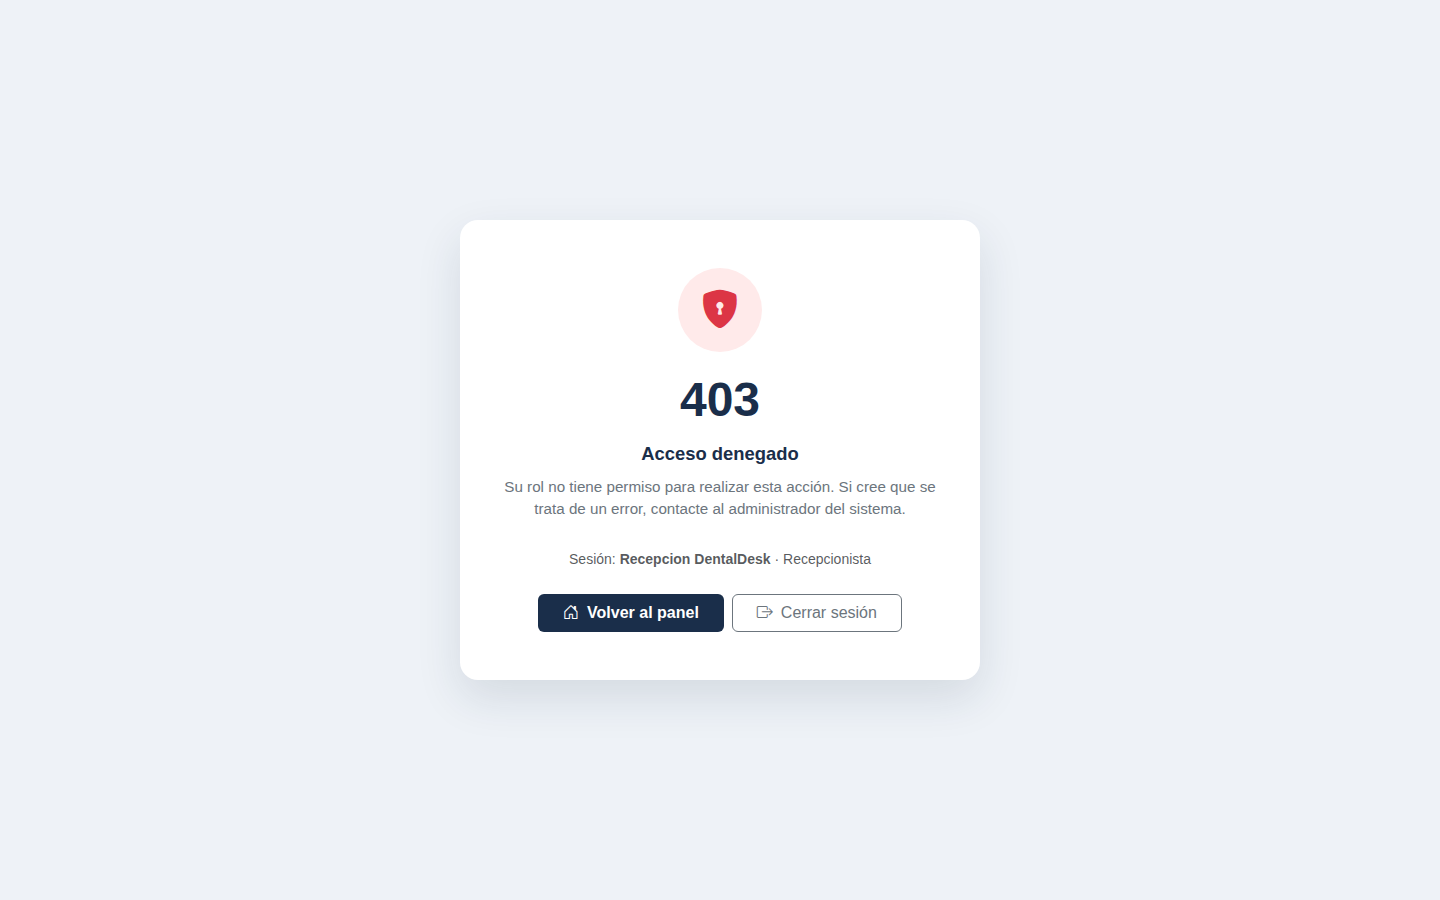
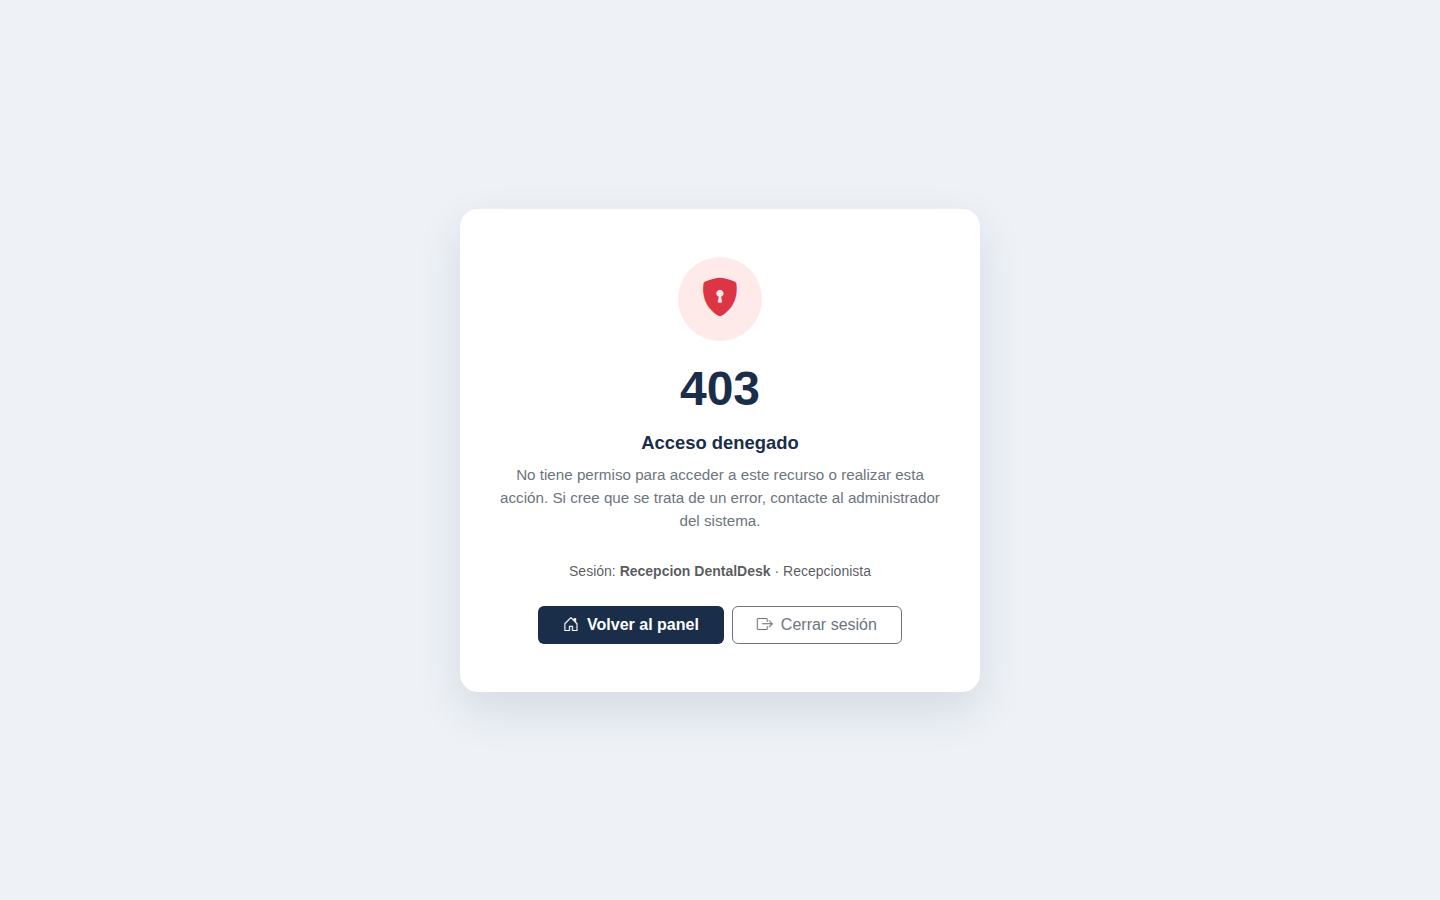
SDD-04: validacion de firma de Twilio en el webhook (T8)
Middleware twilio.firma con HMAC-SHA1 y comparacion en tiempo constante;
403 sin firma valida. El webhook exige numero valido, coincidencia exacta
del telefono, respuestas exactas si/no y registra cada cambio en el log.

Changed region(s): [[0.3438, 0.4044, 0.6562, 0.7156], [0.3125, 0.7467, 0.6875, 0.7778], [0.4688, 0.3111, 0.5312, 0.3733]]

diff --git a/app/Http/Controllers/WebhookController.php b/app/Http/Controllers/WebhookController.php
@@ -4,34 +4,104 @@ namespace App\Http\Controllers;
 
 use App\Models\Recordatorio;
 use Illuminate\Http\Request;
+use Illuminate\Support\Facades\Log;
+use Illuminate\Support\Str;
 
 class WebhookController extends Controller
 {
     public function whatsapp(Request $request)
     {
-        $telefono = preg_replace('/\D/', '', $request->input('From', ''));
-        $mensaje  = strtolower(trim($request->input('Body', '')));
+        $telefono = $this->normalizarTelefono((string) $request->input('From', ''));
 
-        // Buscar el recordatorio más reciente del paciente por teléfono
-        $recordatorio = Recordatorio::whereHas('cita.paciente', function ($q) use ($telefono) {
-                $q->whereRaw("regexp_replace(telefono_whatsapp, '[^0-9]', '', 'g') LIKE ?", ["%{$telefono}%"]);
+        // SDD-04 R3: sin número de origen válido no se toca ningún dato.
+        if (! $this->telefonoValido($telefono)) {
+            Log::warning('Webhook WhatsApp ignorado: número de origen inválido.', [
+                'from' => $request->input('From'),
+            ]);
+
+            return $this->respuestaVacia();
+        }
+
+        // SDD-04 R4: coincidencia exacta del número normalizado.
+        $recordatorio = Recordatorio::whereHas('cita.paciente', function ($query) use ($telefono) {
+                $query->whereRaw("regexp_replace(telefono_whatsapp, '[^0-9]', '', 'g') = ?", [$telefono]);
             })
             ->where('estado', 'enviado')
             ->latest()
             ->first();
 
-        if (!$recordatorio) {
-            return response('<Response></Response>')->header('Content-Type', 'text/xml');
+        if (! $recordatorio) {
+            return $this->respuestaVacia();
         }
 
-        if (str_contains($mensaje, 'si') || str_contains($mensaje, 'sí')) {
-            $recordatorio->update(['estado' => 'confirmado', 'respuesta_wa' => $request->input('Body')]);
+        $respuesta = $this->normalizarRespuesta((string) $request->input('Body', ''));
+
+        // SDD-04 R5: solo "sí" y "no" exactos cambian el estado.
+        if ($respuesta === 'si') {
+            $recordatorio->update([
+                'estado'       => 'confirmado',
+                'respuesta_wa' => $request->input('Body'),
+            ]);
             $recordatorio->cita->update(['estado' => 'confirmada']);
-        } elseif (str_contains($mensaje, 'no')) {
-            $recordatorio->update(['estado' => 'rechazado', 'respuesta_wa' => $request->input('Body')]);
+
+            $this->registrarCambio('confirmada', $telefono, $request, $recordatorio);
+        } elseif ($respuesta === 'no') {
+            $recordatorio->update([
+                'estado'       => 'rechazado',
+                'respuesta_wa' => $request->input('Body'),
+            ]);
             $recordatorio->cita->update(['estado' => 'cancelada']);
+
+            $this->registrarCambio('cancelada', $telefono, $request, $recordatorio);
+        } else {
+            Log::info('Webhook WhatsApp: respuesta no reconocida, sin cambios.', [
+                'telefono'  => $telefono,
+                'respuesta' => $request->input('Body'),
+                'cita_id'   => $recordatorio->cita_id,
+            ]);
         }
 
+        return $this->respuestaVacia();
+    }
+
+    /**
+     * SDD-04 R6: cada cambio queda en el log con número, respuesta y cita.
+     */
+    private function registrarCambio(string $estado, string $telefono, Request $request, Recordatorio $recordatorio): void
+    {
+        Log::info("Webhook WhatsApp: cita {$estado}.", [
+            'telefono'        => $telefono,
+            'respuesta'       => $request->input('Body'),
+            'cita_id'         => $recordatorio->cita_id,
+            'recordatorio_id' => $recordatorio->id,
+        ]);
+    }
+
+    private function normalizarTelefono(string $from): string
+    {
+        // "whatsapp:+59174272446" -> "59174272446"
+        return preg_replace('/\D/', '', $from);
+    }
+
+    private function telefonoValido(string $telefono): bool
+    {
+        return strlen($telefono) >= 8 && strlen($telefono) <= 15;
+    }
+
+    /**
+     * Minúsculas, sin tildes y sin espacios sobrantes; el resto se rechaza.
+     */
+    private function normalizarRespuesta(string $body): string
+    {
+        $texto = Str::lower(trim($body));
+
+        return strtr($texto, [
+            'á' => 'a', 'é' => 'e', 'í' => 'i', 'ó' => 'o', 'ú' => 'u', 'ü' => 'u',
+        ]);
+    }
+
+    private function respuestaVacia()
+    {
         return response('<Response></Response>')->header('Content-Type', 'text/xml');
     }
 }

diff --git a/app/Http/Middleware/ValidarFirmaTwilio.php b/app/Http/Middleware/ValidarFirmaTwilio.php
@@ -1,0 +1,52 @@
+<?php
+
+namespace App\Http\Middleware;
+
+use Closure;
+use Illuminate\Http\Request;
+use Illuminate\Support\Facades\Log;
+use Symfony\Component\HttpFoundation\Response;
+
+/**
+ * SDD-04 R1/R2: el webhook solo procesa peticiones firmadas por Twilio.
+ *
+ * Twilio firma con HMAC-SHA1 sobre la URL completa seguida de los parámetros
+ * POST ordenados por nombre. Sin firma válida la petición se rechaza con 403
+ * y no llega al controlador.
+ */
+class ValidarFirmaTwilio
+{
+    public function handle(Request $request, Closure $next): Response
+    {
+        $token = (string) config('services.twilio.token');
+        $firma = (string) $request->header('X-Twilio-Signature', '');
+
+        if ($token === '' || $firma === '') {
+            Log::warning('Webhook WhatsApp rechazado: falta la firma o el token de Twilio.', [
+                'ip' => $request->ip(),
+            ]);
+
+            abort(403, 'Firma de Twilio ausente.');
+        }
+
+        $parametros = $request->post();
+        ksort($parametros);
+
+        $cadena = $request->fullUrl();
+        foreach ($parametros as $clave => $valor) {
+            $cadena .= $clave . (is_array($valor) ? implode('', $valor) : $valor);
+        }
+
+        $esperada = base64_encode(hash_hmac('sha1', $cadena, $token, true));
+
+        if (! hash_equals($esperada, $firma)) {
+            Log::warning('Webhook WhatsApp rechazado: firma inválida.', [
+                'ip' => $request->ip(),
+            ]);
+
+            abort(403, 'Firma de Twilio inválida.');
+        }
+
+        return $next($request);
+    }
+}

diff --git a/resources/views/errors/403.blade.php b/resources/views/errors/403.blade.php
@@ -52,7 +52,7 @@
     <div class="denegado-code">403</div>
     <div class="denegado-title">Acceso denegado</div>
     <p class="denegado-text">
-        Su rol no tiene permiso para realizar esta acción.
+        No tiene permiso para acceder a este recurso o realizar esta acción.
         Si cree que se trata de un error, contacte al administrador del sistema.
     </p>
 

diff --git a/bootstrap/app.php b/bootstrap/app.php
@@ -11,7 +11,9 @@ return Application::configure(basePath: dirname(__DIR__))
         health: '/up',
     )
     ->withMiddleware(function (Middleware $middleware) {
-        //
+        $middleware->alias([
+            'twilio.firma' => \App\Http\Middleware\ValidarFirmaTwilio::class,
+        ]);
     })
     ->withExceptions(function (Exceptions $exceptions) {
         //

diff --git a/routes/web.php b/routes/web.php
@@ -22,6 +22,7 @@ Route::middleware('guest')->group(function () {
 });
 
 Route::post('/webhook/whatsapp', [WebhookController::class, 'whatsapp'])
+    ->middleware('twilio.firma')
     ->name('webhook.whatsapp')
     ->withoutMiddleware([\Illuminate\Foundation\Http\Middleware\VerifyCsrfToken::class]);
 
